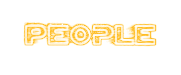
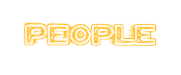
Add contentButton styling

diff --git a/src/ContentButton/styles.css b/src/ContentButton/styles.css
@@ -1,5 +1,69 @@
 .content-button {
+  border: 1px solid #66AFCF;
+  border-radius: 30px;
   height: 80px;
-  width: 160px;
-  font-size: 28px;
+  width: 12vw;
+  background-color: transparent;
+  box-shadow: 0px 0px 5px 1px #66AFCF;
+  background-size: cover;
+  background-repeat: no-repeat;
+  background-size: 100% 100%;
+}
+
+.content-button.active {
+  border: 1px solid #F3BF44;
+  box-shadow: 0px 0px 5px 1px #F3BF44;
+}
+
+.content-button:hover {
+  border: 1px solid #9F1F16;
+  box-shadow: 0px 0px 5px 1px #9F1F16;
+}
+
+.content-button.people {
+  background-image: url('./images/people.png');
+}
+
+.content-button.vehicles {
+  background-image: url('./images/vehicles.png');
+}
+
+.content-button.starships {
+  background-image: url('./images/starships.png');
+}
+
+.content-button.planets {
+  background-image: url('./images/planets.png');
+}
+
+.content-button.people.active {
+  background-image: url('./images/people-active.png');
+}
+
+.content-button.vehicles.active {
+  background-image: url('./images/vehicles-active.png');
+}
+
+.content-button.starships.active {
+  background-image: url('./images/starships-active.png');
+}
+
+.content-button.planets.active {
+  background-image: url('./images/planets-active.png');
+}
+
+.content-button.people:hover {
+  background-image: url('./images/people-hover.png');
+}
+
+.content-button.vehicles:hover {
+  background-image: url('./images/vehicles-hover.png');
+}
+
+.content-button.starships:hover {
+  background-image: url('./images/starships-hover.png');
+}
+
+.content-button.planets:hover {
+  background-image: url('./images/planets-hover.png');
 }

diff --git a/src/ContentButton/index.js b/src/ContentButton/index.js
@@ -3,12 +3,11 @@ import PropTypes from 'prop-types';
 import './styles.css';
 
 const ContentButton = ({buttonType, activateCategory, activeCategoryName}) => {
-  const className = buttonType === activeCategoryName ? 'content-button active' : 'content-button'
+  const className = buttonType === activeCategoryName ? `content-button ${buttonType} active` : `content-button ${buttonType}`
   return(
     <button 
       className={className}
       onClick={() => activateCategory(buttonType)}>
-      {buttonType}
     </button>
   )
 }

diff --git a/src/Nav/styles.css b/src/Nav/styles.css
@@ -3,11 +3,9 @@
   box-sizing: border-box;
   justify-content: space-around;
   padding: 10px;
-  border: 4px solid #36363D;
   border-radius: 40px;
   margin: auto;
-  height: 110px;
+  height: 100px;
   width: 90vw;
   background-color: rgba(0,0,0, 0.5);
-  box-shadow: 0 1px 9px 2px #36363D;
 }
